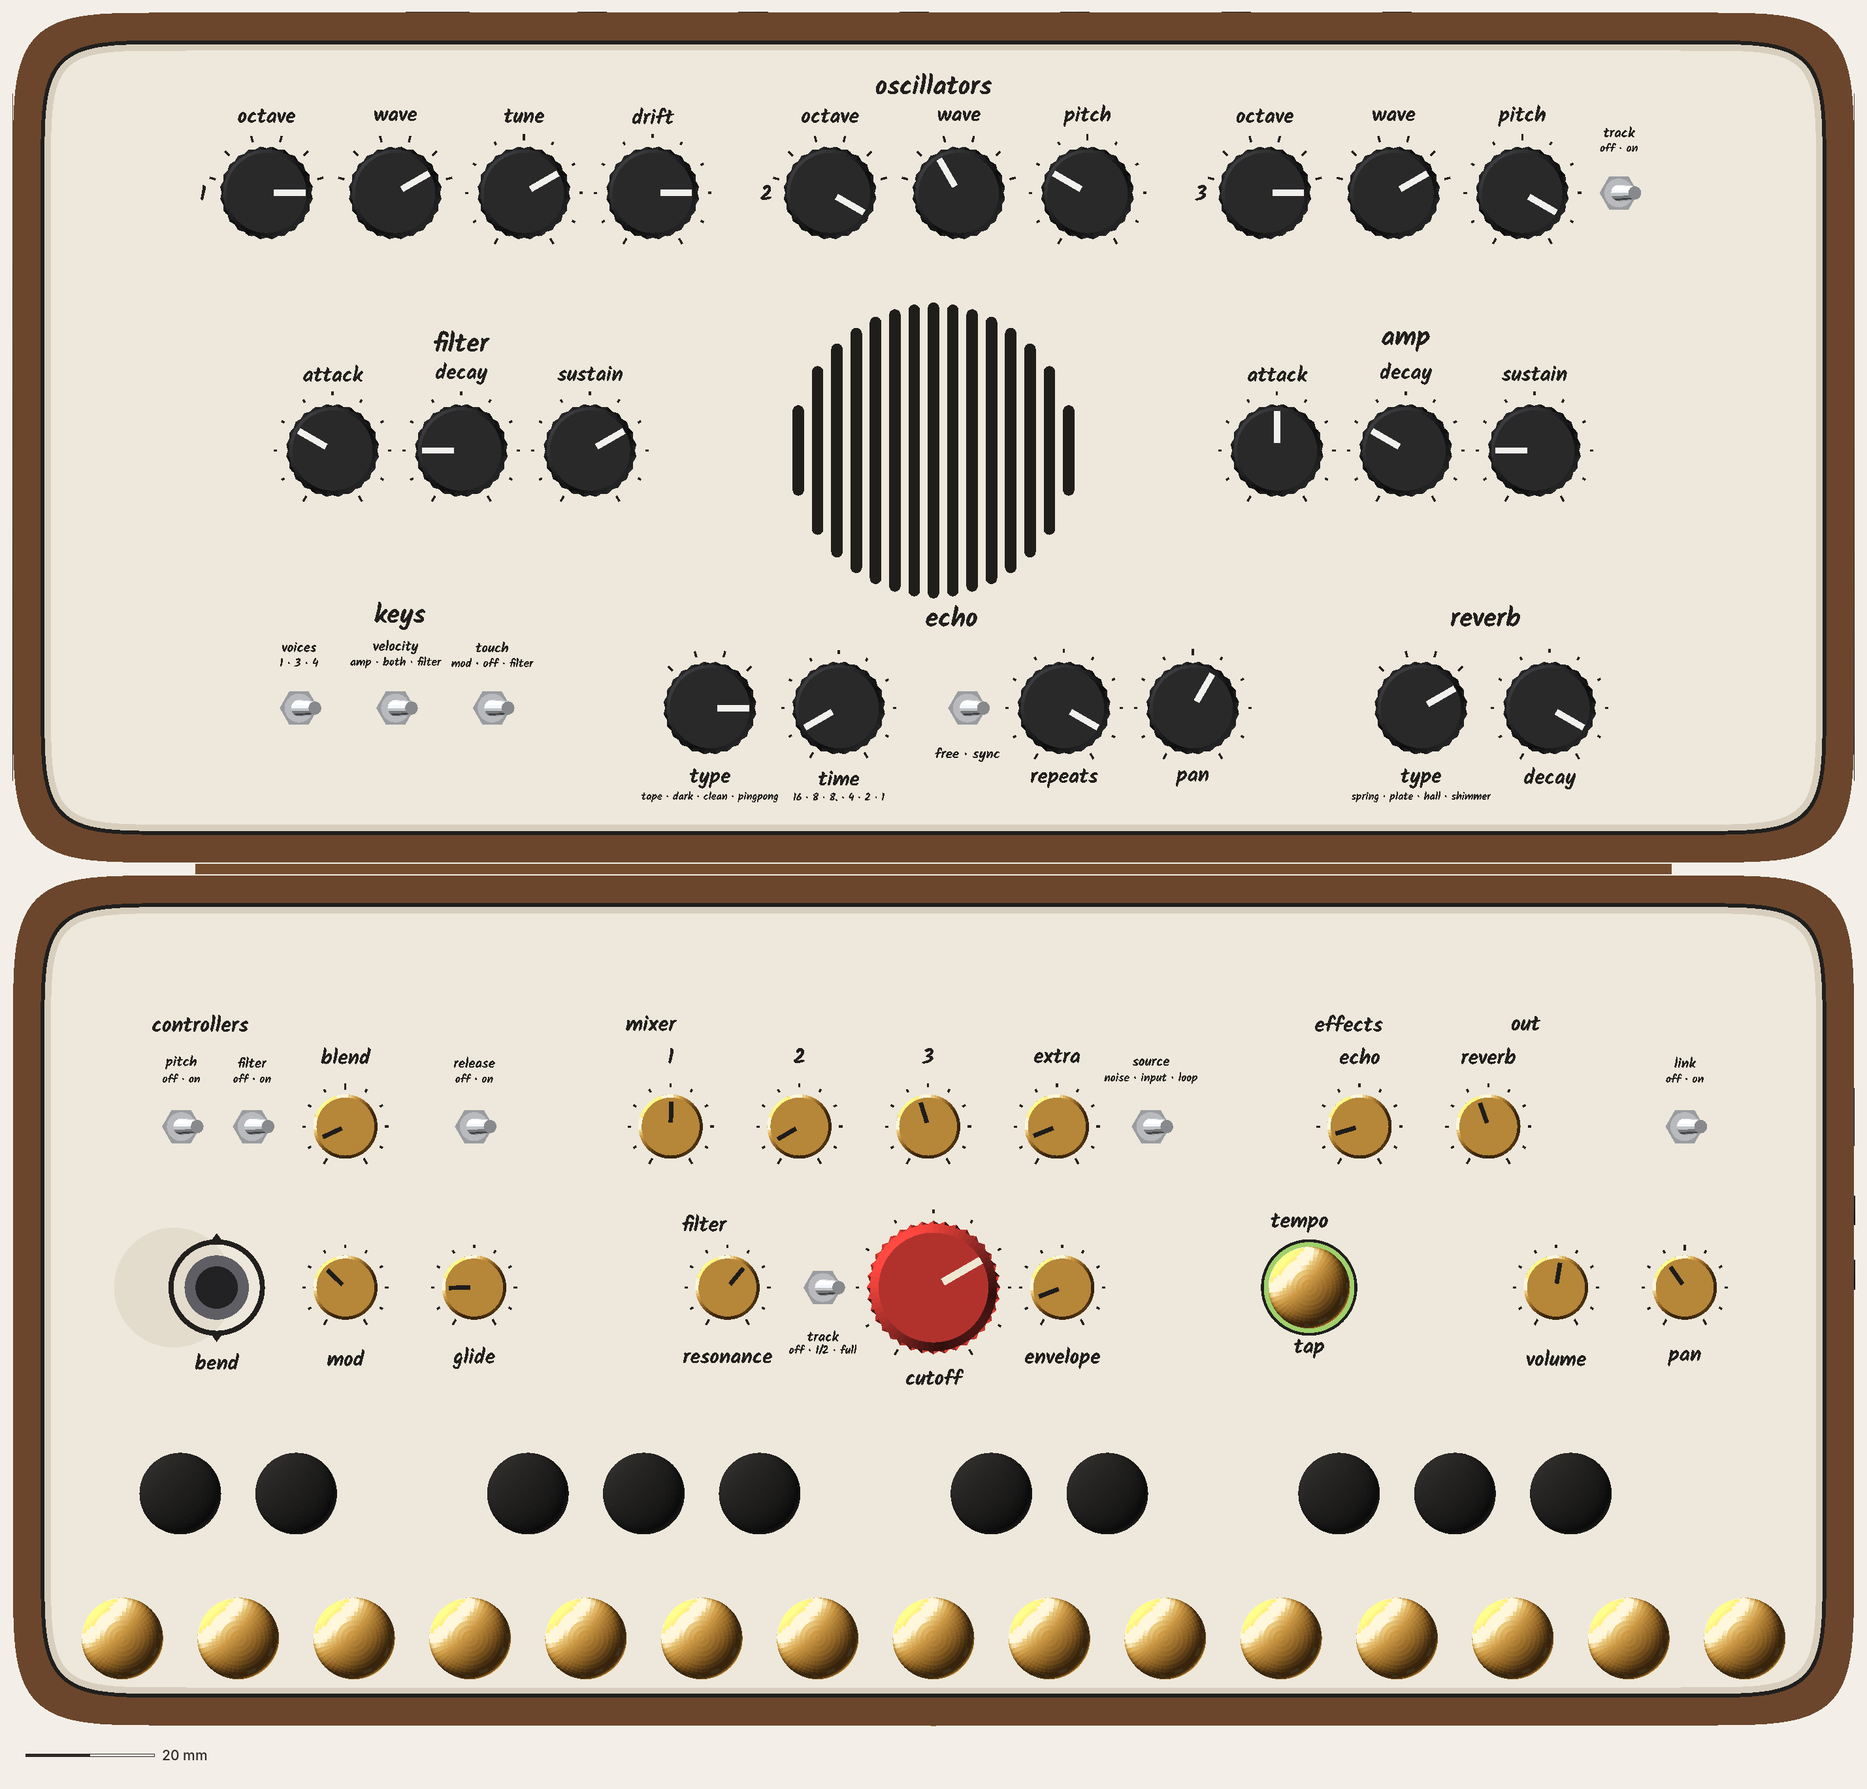
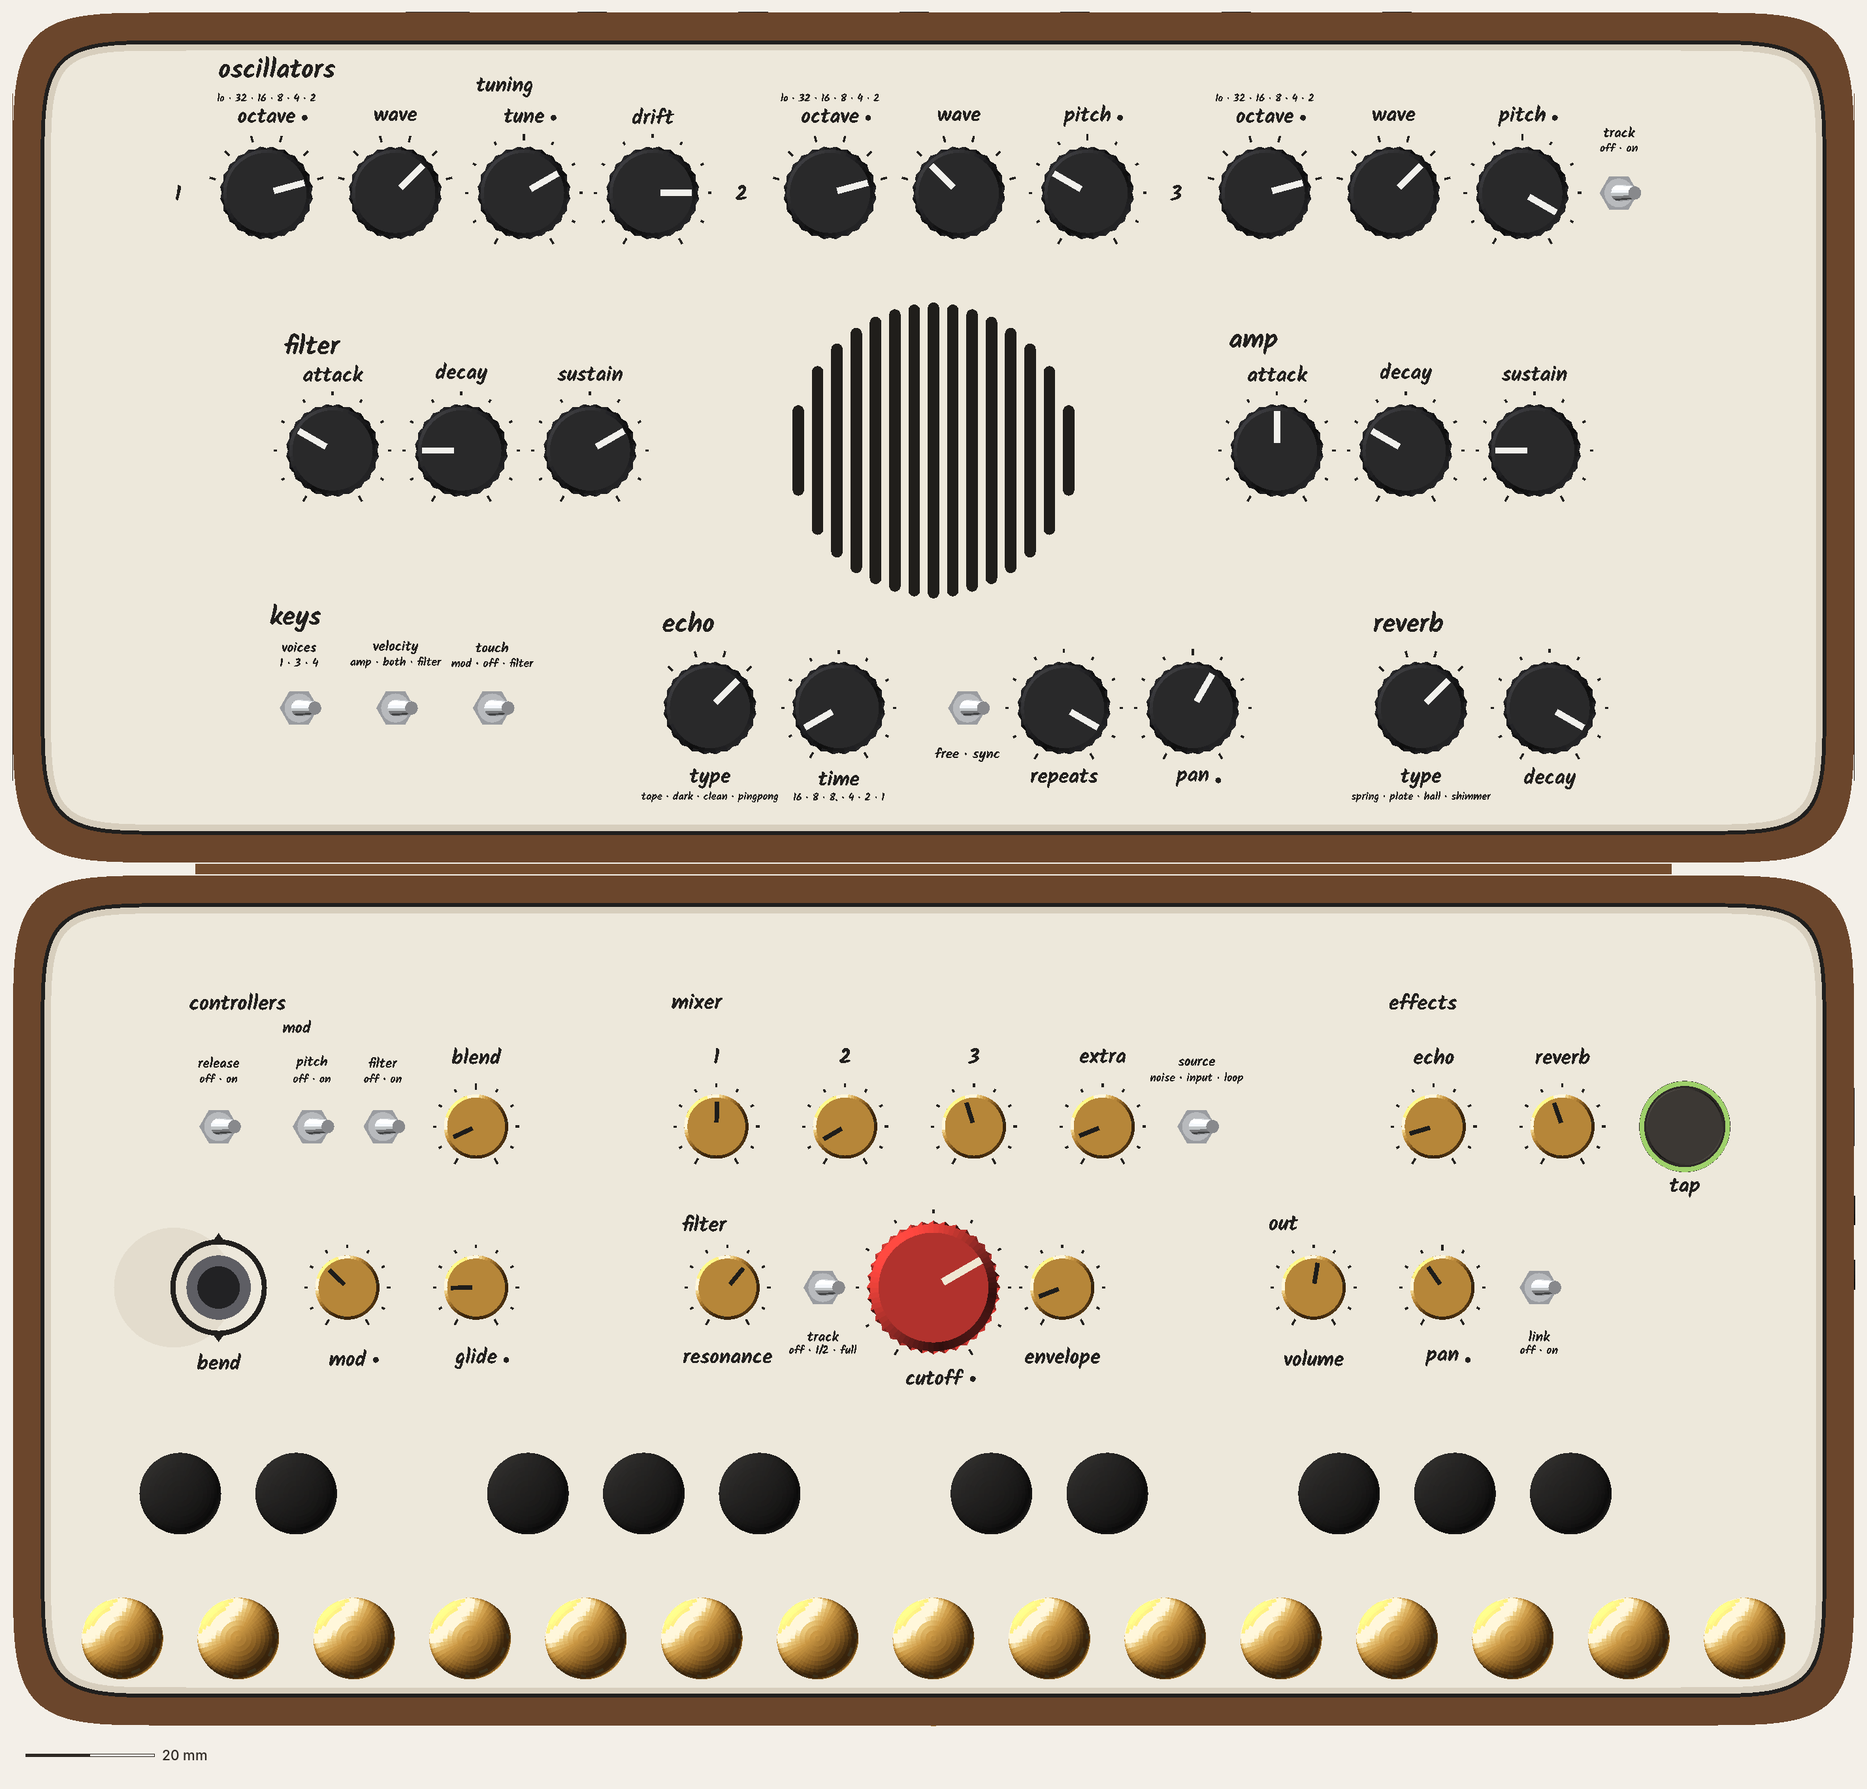
CATHEDRAL round 7, visual: lay out e38e035; P5R top and standing with octave positions, MIDI dots, detent pointers, black TAP; P5OB study top (gaps kept); fits; look doc rev 9.8; real-Kalam 0 (P5R)

diff --git a/design/concepts/_mock-src/rb.py b/design/concepts/_mock-src/rb.py
@@ -1735,6 +1735,7 @@ def nv_fit_sections(lc, sections):
     return list(sections)
 
 LEGEND_FIT = {}   # (echo "time" +0.5 is the checker's LEGEND_NUDGE since 33229cd; read below)
+P5R_HEAD_FIT = {"filter": (0.0, 0.8), "amp": (0.0, 0.8), "keys": (0.0, 0.6)}   # e38e035 real Kalam: filter / amp 0.83 / 0.79 over "attack"; keys 0.94 over "voices"
 P5O_HEAD_FIT = {"filter": (0.0, 0.8), "amp": (0.0, 0.8)}   # 74ef961 studies: the old reverb fit is dropped (that heading moved); filter / amp +0.8 clear their attack knobs' top ticks (real 0.24 / 0.28). Was {"reverb": (-3.8, 1.55)}   # 33229cd: "reverb" over decay again: +1.55 clears decay's top tick (real 0.00); -3.8 hangs it into the gutter exactly like "out", so it sits >= 20 from the type fan (systems' zone rule)
 def nv_heads_left(lc, sections):
     """steer 5 score fixes 2. P5O: systems' SECTIONS_LEFT (every heading top-left of its group), with the visual's
@@ -1744,7 +1745,9 @@ def nv_heads_left(lc, sections):
     P5R keeps systems' centred headings: left-aligned, "echo" / "reverb" land on their type fans and "envelopes" on
     voices (6 rule violations), so P5R needs systems' geometry first."""
     if getattr(lc, "SECTIONS_LEFT", None):
-        heads = [(t, x + P5O_HEAD_FIT.get(t, (0, 0))[0], d + P5O_HEAD_FIT.get(t, (0, 0))[1]) for t, x, d in lc.SECTIONS_LEFT]
+        hf = P5O_HEAD_FIT if getattr(lc, "VARIANT", "") in P5O_FAMILY else \
+             (P5R_HEAD_FIT if getattr(lc, "VARIANT", "") == "P5R" else {})   # (e38e035: P5R is top-left too)
+        heads = [(t, x + hf.get(t, (0, 0))[0], d + hf.get(t, (0, 0))[1]) for t, x, d in lc.SECTIONS_LEFT]
         return heads, [(t, x - len(t) * 0.25 * lc.SUB_S, d) for t, x, d in nv_fit_subheads(lc)], "left"
     # 049e51e real Kalam: P5R row-C headings +1.5 ("keys" sat 0.09 over "velocity"); "filter" / "amp" +1.2 (0.38 / 0.42
     # over "decay")
@@ -1761,7 +1764,7 @@ def nv_fit_subheads(lc):
     subs = list(getattr(lc, "SUBHEADS", []))
     if getattr(lc, "VARIANT", "") in P5O_FAMILY:  # 33229cd: "tuning" +0.2 (real Kalam: 1.37 over "tune")
         subs = [(t, x, d + 0.2) if t == "tuning" else (t, x, d) for t, x, d in subs]
-    if getattr(lc, "VARIANT", "") == "P5R":
+    if getattr(lc, "VARIANT", "") == "P5R" and any(t in ("filter", "amp") for t, x, d in subs):
         subs = [(t, x, 81.5) for t, x, d in subs]     # 2 mm higher than systems' 79.5: clear of the "decay" legends,
                                                       #   still below the oscillator switches (at 91.8 they read as
                                                       #   names of the oscillator knobs above)
@@ -1927,8 +1930,10 @@ class Nave(Cathedral):
         """steer 5 (visual): the rear row's legends go BEHIND their knobs and its headings above them (y 109), so
         the front row's headings (y 78) aren't sandwiched between the rear legends and the front knobs."""
         secs = list(getattr(self.lc, "BASE_SECTIONS", []))
-        if self._sq():
+        if self._sq() and not getattr(self.lc, "BASE6", False):   # (BASE6: systems places them, e38e035)
             secs = [(t, x, 109.0 if y > 100 else y) for t, x, y in secs]
+        elif getattr(self.lc, "BASE6", False):          # e38e035 real Kalam: the rear heading line +0.4 ("controllers"
+            secs = [(t, x, y + 0.4 if y > 100 else y) for t, x, y in secs]   # sat 1.17 over the "mod" sub-heading)
         return secs
 
     PLATE_RC = 24.0          # visual's pick within systems' 16-32.5 (§19.6): soft and architectural, one family
@@ -2115,7 +2120,10 @@ class Nave(Cathedral):
 
     def base_names(self):
         secs = self.base_sections() if hasattr(self, "base_sections") else getattr(self.lc, "BASE_SECTIONS", [])
-        return "".join(txt(x, y, BASE_H + 0.01, t, 2.4, FO_INK, font=HAND, halign="left") for t, x, y in secs)
+        s = "".join(txt(x, y, BASE_H + 0.01, t, 2.4, FO_INK, font=HAND, halign="left") for t, x, y in secs)
+        # e38e035: base sub-headings ("mod" over pitch · filter · blend), left-aligned, Kalam 1.8
+        s += "".join(txt(x, y, BASE_H + 0.01, t, 1.8, FO_INK, font=HAND, halign="left") for t, x, y in getattr(self.lc, "BASE_SUBS", []))
+        return s
 
     def base_extra(self, walnut):
         s = self.grooves_base(walnut) if self.grain else ""
@@ -2246,6 +2254,7 @@ def jobs(SZ):
         "rb_nv5_O4_stand": lambda: (lambda n: shot4(n.model("stand"), fp_rect(0, 0, W, n.D + 64), "rb_nv5_O4_stand", size=SZ, az=-32, el=24, dist=860, center=(143, n.D * 0.6, 58), grain_classes=(), wood=True) and relight(os.path.join(OUT, "rb_nv5_O4_stand.png")))(nave_env("P5O", CATHEDRAL_VCO4="1")),
         "rb_nv5_Rfb_top": lambda: (lambda n: top4(n.model(True), "rb_nv5_Rfb_top", -2, -2, W + 2, 2 * n.D + 4, px_per_mm=8, grain_classes=()))(nave_env("P5R", CATHEDRAL_P5R_KEYS="line")),
         # §22 studies (owner judges the amp-row trade by eye; holes kept): full tops only
+        "rb_s7_P5OB_top": lambda: (lambda n: top4(n.model(True), "rb_s7_P5OB_top", -2, -2, W + 2, 2 * n.D + 4, px_per_mm=8, grain_classes=()))(Nave(lid="P5OB", spine="dark")),
         **{f"rb_s6_{v}_top": (lambda v=v: (lambda n: top4(n.model(True), f"rb_s6_{v}_top", -2, -2, W + 2, 2 * n.D + 4, px_per_mm=8, grain_classes=()))(Nave(lid=v, spine="dark"))) for v in ("P5O", "P5OA", "P5OL")},
         "rb_nv5_closed": lambda: (lambda n: ld.shot(n.model(False, walnut=WAL_R), fp_rect(0, 0, W, n.D), "rb_nv5_closed", size=SZ, az=152, el=34, dist=760, center=(143, n.D * 0.55, 26), grain_classes=()))(Nave(lid="P5O", spine="dark")),
         # steer 5 fixes: the spine standing (from behind and below the joint) and open flat (a back corner, close)

diff --git a/design/branches/concepts/cathedral/how-it-looks-and-feels.md b/design/branches/concepts/cathedral/how-it-looks-and-feels.md
@@ -1,4 +1,4 @@
-# CATHEDRAL: how it looks and feels (visual, rev 9.7: the marking system applied to P5R's re-lay, systems 049e51e)
+# CATHEDRAL: how it looks and feels (visual, rev 9.8: round 7, systems e38e035; MIDI dots back, octave positions, TAP not brass)
 
 Seed: CHAMBER rev 2 + FOLD-105 v1.1. Owner record: `design/owner.md` (14:12 onwards). Read with `how-it-works.md`, where systems owns the geometry; **§19** is this revision's layout (commit a80d7c: equal-gutter base, P5O as columns with a VCO 4 slot, P5R with out at the end of its bottom row, pivots inboard, the gap rule). The director's steer-5 scores (P5R 8, P5O 6, base 7) are in `design/notes/director.md`; then P5R 9, P5O 8. Rev 9.1 lays out systems' fixes for the 10 (f8ba494): P5R's oscillator switches on one line under the VCOs; P5O's headings top-left, every VCO reading octave · wave · pitch, tune · drift as a headed "tuning" pair after VCO 1, and out in R4's right slot.
 
@@ -36,6 +36,20 @@ Seed: CHAMBER rev 2 + FOLD-105 v1.1. Owner record: `design/owner.md` (14:12 onwa
 - **"envelopes", for systems:** take the review's §11: one ENVELOPES heading, with FILTER and AMP as row or column labels in the same margin style as the oscillator numbers, off the grille.
 - **The name is off the panel** (owner: "Also it doesn't need to say big energy").
 - **Reverb names in size order** (spring · plate · hall · shimmer, review 8) is a change to the DSP's position order. **Systems / director.**
+
+### Rev 9.8: round 7 (systems e38e035)
+- **P5R:** headings top left, a "tuning" sub-heading, VCO numbers in the gaps. Base: release behind bend; a "mod" sub-heading over pitch · filter · blend; "out" over volume · pan · link; "effects" over echo · reverb · tap; no "tempo".
+- **Applied:** octave's positions line (*lo · 32 · 16 · 8 · 4 · 2*, 2.4 mm under "oscillators" in P5R); stepped pointers on a detent; MIDI dots in one place; TAP as a matte black cap with its lit bezel.
+- **Real-Kalam fits, for systems to fold:** P5R "filter" / "amp" +0.8 (0.83 / 0.79 over "attack"); "keys" +0.6 (0.94 over "voices"); the base rear heading line +0.4 (to y 112.4: "controllers" sat 1.17 over "mod"). Real Kalam 0, systems' rules 0, the director's tests 0 (P5R).
+
+<figure>
+<img src="img/cathedral-s7-P5OB-study-top-9.9px-per-mm.png" alt="Exact top view of the P5OB study open flat: the oscillator bank of three rows at the left with tuning on the first row and the keys switches under it; the amp envelope as a row above the speaker window and the filter envelope as a row below it, a centre spine; echo at the top right and reverb at the lower right, with empty areas left in on purpose.">
+<figcaption><b>P5OB study: the centre spine</b> (exact, scale bar 20 mm). The amp row is over the window and the filter row under it, with the oscillator bank on the left and the effects on the right. A study: its 5 checker violations are all empty space, left in on purpose.</figcaption>
+</figure>
+
+- **P5OB, for systems:**
+  - **octave's positions line has no room under "oscillators": it overlaps the heading by 0.38 mm, so it's 1.88 mm short of the 1.5 rule.** "oscillators" (or the top heading line) needs to go ≥ 1.9 mm higher, or row 1 ≥ 1.9 mm lower. It's drawn as is, not squeezed.
+  - Also in the study's real Kalam: "filter" and "reverb" sit on their first knobs' top ticks (0.00, 1.18 from the knobs), and "keys" is 0.94 over "voices".
 
 ### Rev 9.7: P5R re-laid (systems 049e51e), marking system applied
 - Every knob carries the rev 9.6 rules. The type names and TIME's six SYNC divisions (16 · 8 · 8. · 4 · 2 · 1) print as **names lines** at 1.2 under their words. At 1.3 the echo-type and TIME lines, 20 mm apart, came 0.92 apart in real Kalam.
@@ -77,7 +91,7 @@ These are studies, not proposals. None passes the checker, and the holes are lef
 <figcaption><b>P5O without VCO 4</b> (exact). The three oscillator rows spread over the same height (d 104 / 69 / 34), so the block fills its column and no slot is left empty. Everything else is as above; voices reads 1 · 3 · 4.</figcaption>
 </figure>
 <figure>
-<img src="img/cathedral-s5-P5R-top-9.9px-per-mm.png" alt="Exact top view of P5R open flat, every knob on one tick system. Lid, top row under one oscillators heading: VCO 1 (octave, wave, tune, drift), VCO 2 (octave, wave, pitch), VCO 3 (octave, wave, pitch, then its track switch), numbered 1 to 3. Middle row: the filter envelope, headed filter, left of the slotted window, and the amp envelope, headed amp, right of it (attack, decay, sustain). Bottom row on one heading line: keys (voices, velocity and touch switches, their names and positions above each), echo (type with its names line tape · dark · clean · pingpong, time with its divisions line 16 · 8 · 8. · 4 · 2 · 1, free · sync, repeats, pan) and reverb (type with spring · plate · hall · shimmer, decay). Base, rear row: controllers (pitch and filter switches, blend, release), mixer (1, 2, 3, extra, source), effects (echo, reverb) and link; front row: bend, mod, glide; filter (resonance, track, the red cutoff, envelope); tempo (tap, its bezel lit green as the status light); out (volume, pan). No name on the panel.">
+<img src="img/cathedral-s5-P5R-top-9.9px-per-mm.png" alt="Exact top view of P5R open flat, every knob on one tick system. Lid, top row under one oscillators heading at the top left: VCO numbers 1, 2 and 3 in the gaps before each group; VCO 1 octave, wave, then tune and drift under the sub-heading tuning; VCO 2 and VCO 3 octave, wave, pitch, VCO 3 followed by its track switch; each octave has its positions line lo · 32 · 16 · 8 · 4 · 2 above its word. Middle row: filter and amp envelopes either side of the slotted window, each headed top left. Bottom row: keys (voices, velocity, touch, words above each switch), echo (type and time with their names lines, free · sync, repeats, pan) and reverb (type with spring · plate · hall · shimmer, decay). Small dots right of the words of the MIDI-controlled knobs. Base, rear row: controllers (release; pitch, filter and blend under the sub-heading mod), mixer (1, 2, 3, extra, source), effects (echo, reverb, and tap: a matte black cap in a green-lit bezel); front row: bend, mod, glide; filter (resonance, track, the red cutoff, envelope); out (volume, pan, link). No name on the panel.">
 <figcaption><b>P5R, the rule in rows</b> (exact, scale bar 20 mm). Top to bottom: oscillators ‖ tuning, with each VCO's switch under it; filter · (window) · amp, symmetric about the window; keys → echo → reverb → out, with the bottom row's headings on one line above the fan words. The reading wraps from amp to keys, which feed both envelopes. Headings are centred over their groups.</figcaption>
 </figure>
 </div>

diff --git a/design/notes/visual.md b/design/notes/visual.md
@@ -1,5 +1,15 @@
 # Visual designer notes (instrument; working name retired)
 
+## Round 7 (systems e38e035), 2026-11-14: READ THIS FIRST
+- **rb.py:**
+  - P5O fits are scoped to `P5O_FAMILY`; new `P5R_HEAD_FIT` (filter / amp +0.8, keys +0.6), because P5R now uses SECTIONS_LEFT;
+  - P5R's old subhead d = 81.5 override applies only to filter / amp sub-heads (it had moved "tuning" into the filter row);
+  - base: systems places the headings when BASE6, plus my rear line +0.4; draws `BASE_SUBS` ("mod", Kalam 1.8);
+  - job `rb_s7_P5OB_top`.
+- **Round 6 items live:** `snap_detent` (stepped pointers), `OCTAVE_LINE`, `MIDI_DOT` + `midi_dot()` (`word_box` measures real Kalam via OpenSCAD, cached in /tmp/branch_check_textbox.json), `TAP_CAP` black + lit bezel.
+- **Checks:** P5R 0 / 0 / 0. P5OB: octave line −0.38 under "oscillators" (needs 1.9 mm, flagged), plus filter / reverb on ticks and keys 0.94 (study, systems).
+- **Images:** P5R top, P5R standing, `cathedral-s7-P5OB-study-top-9.9px-per-mm.png`.
+
 ## P5R on 049e51e + P5O studies (2026-11-14): READ THIS FIRST
 - **P5R:** marking system applied. Names lines from `lc.NAMED_LINES` at `NAMED_S` 1.2. TAP bezel lit (BASE6). Fits: row C +0.88 (keys +0.92), filter / amp +1.2, `ABOVE2_BOT` 1.9 / `ABOVE2_LEAD` 1.2, base rear leading 1.25. Real Kalam 0 (the window rule is systems' 1.0 in `s5f_kalam`). Rendered top + standing (c87738f).
 - **Studies (§22, systems 74ef961 / 2ae6833):** P5O / P5OA / P5OL, jobs `rb_s6_<V>_top`. `P5O_FAMILY` gives the studies P5O's treatment. `P5O_HEAD_FIT` is now filter / amp +0.8 (the old reverb fit dropped). Files: `cathedral-s6-P5O-study-amp-column-top-9.9px-per-mm.png`, `cathedral-s6-P5OA-study-amp-row-top-9.9px-per-mm.png`, `cathedral-s6-P5OL-study-levels-on-lid-top-9.9px-per-mm.png`. The holes are kept. Remaining clashes are systems' (reverb pinched; filter / amp ticks into the window).
